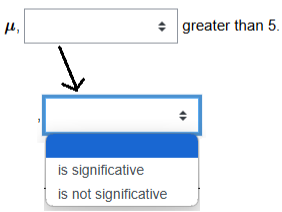
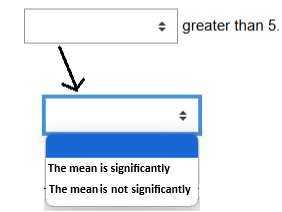
image change

Changed region(s): [[0.1702, 0.7642, 0.7092, 0.9623], [0.0, 0.0849, 0.0851, 0.1698], [0.1135, 0.566, 0.1418, 0.5943]]

diff --git a/paper/paper.md b/paper/paper.md
@@ -110,7 +110,7 @@ Some notes:
 * Data files (`data.csv` as explained previously) have been written by hand (carefully chosen interesting values or text strings for quizzes), or was coded in Python, R, or using Excel functions.
 * If a column in data file has text, it will be implemented as a multiple choice field in Moodle like shown in the image:
 
-![multichoice.png](multichoice.png)
+![A fill-in-the-blanks variable with textual values is transformed into a multiple choice field.](multichoice.png)
 
 # Citations
 
